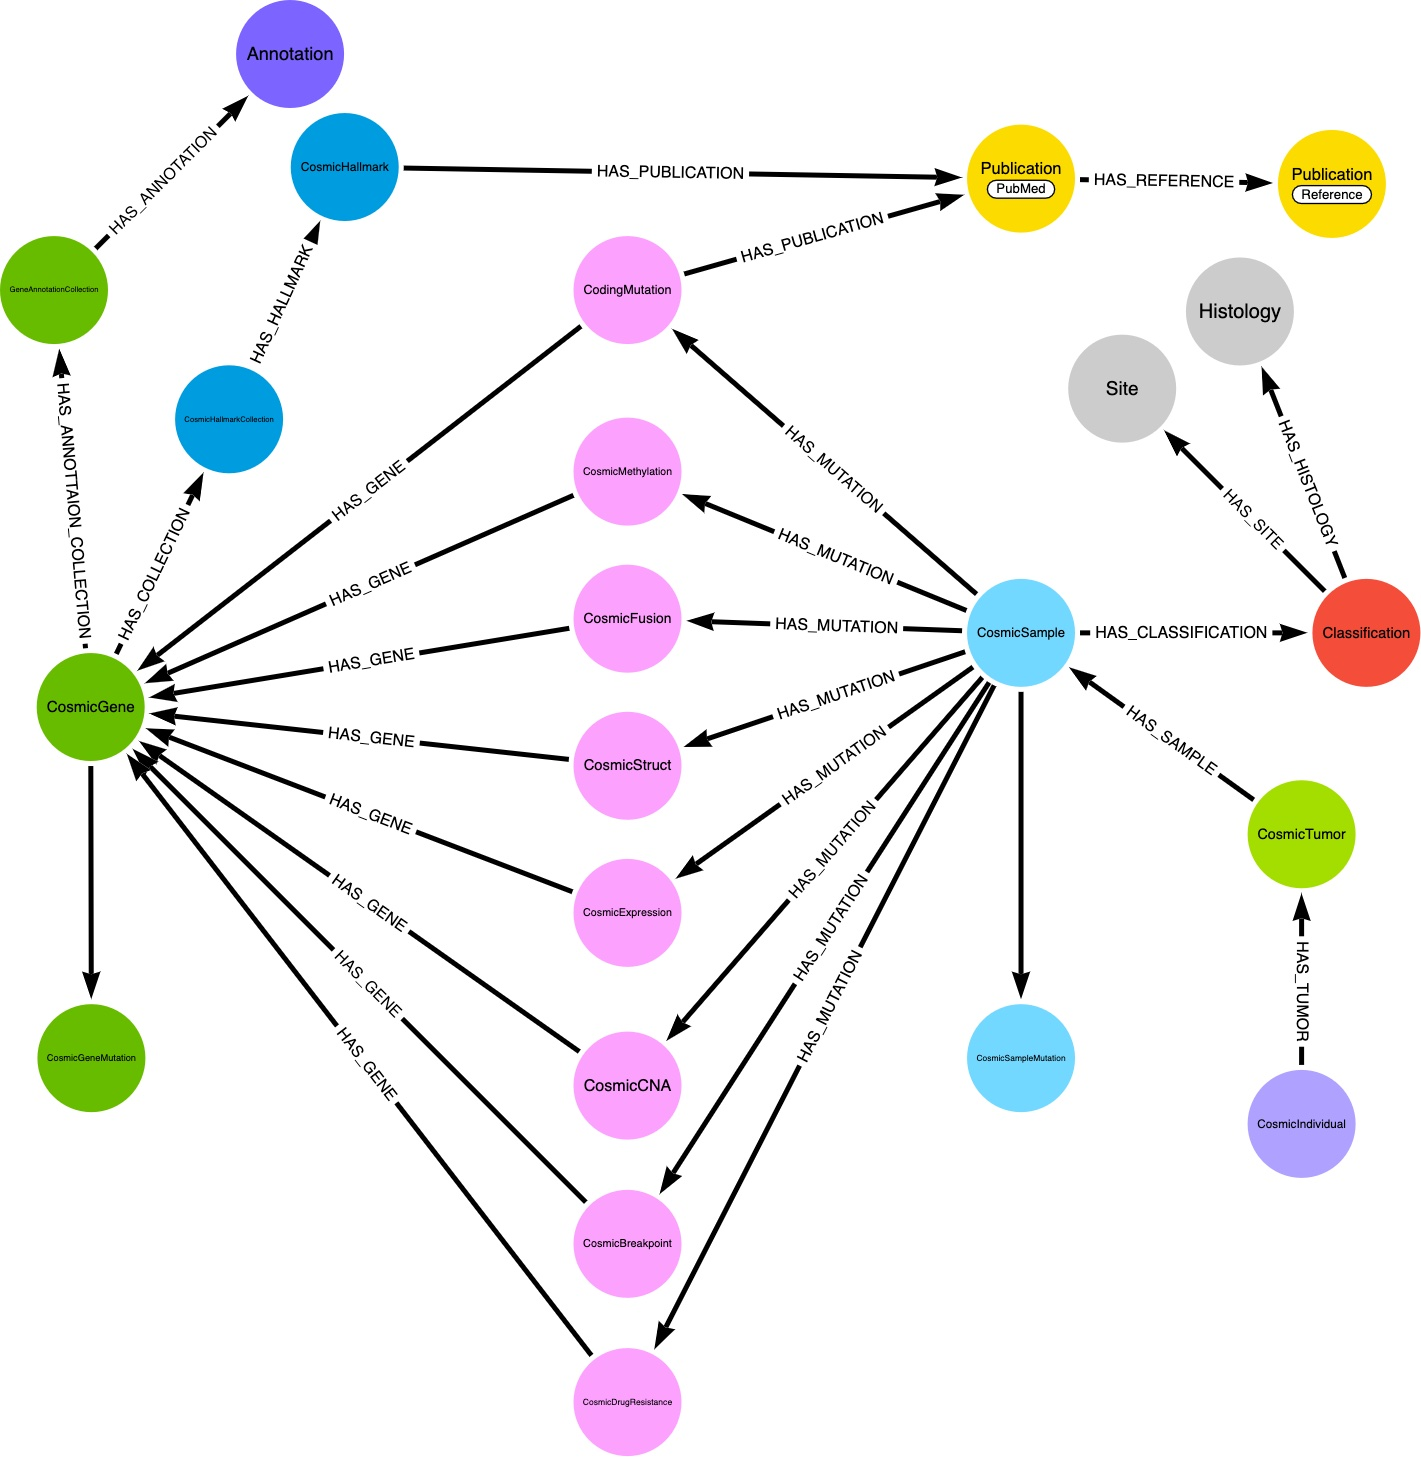
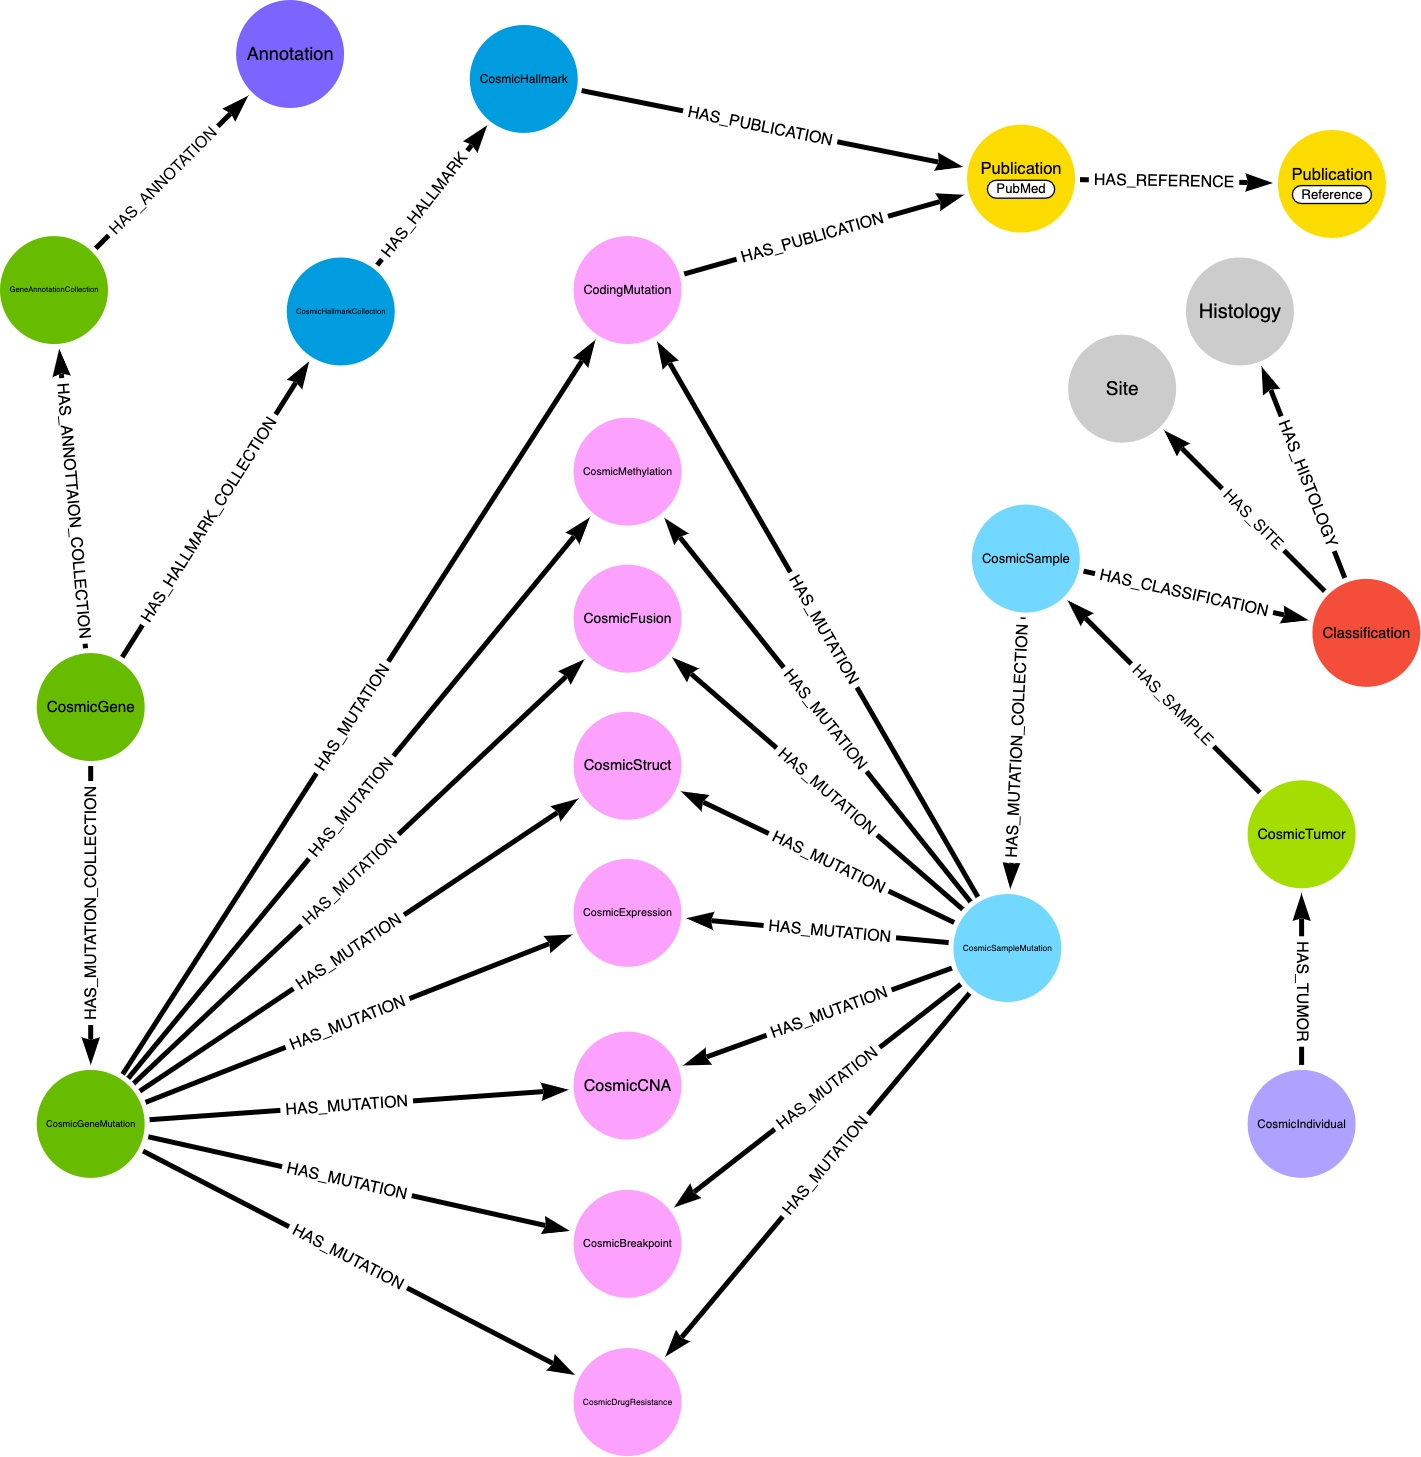
Added restart support; revised schema diagram

diff --git a/src/main/kotlin/org/batteryparkdev/cosmicgraphdb/app/CosmicNeo4jDatabaseLoader.kt b/src/main/kotlin/org/batteryparkdev/cosmicgraphdb/app/CosmicNeo4jDatabaseLoader.kt
@@ -119,13 +119,18 @@ class CosmicNeo4jDatabaseLoader() : CoroutineScope {
 
     private fun loadGeneCensusJob(): String {  // job 2
         CosmicModelLoader(CosmicFilenameService.cosmicGeneCensusFile).also {
-            println("Starting GeneCensus loader")
+            val dropCount = resolveNodeCountByLabel("CosmicGene")
+            println("Starting GeneCensus loader; skipping $dropCount records")
             val stopwatch = Stopwatch.createStarted()
-            it.loadCosmicFile()
+            it.loadCosmicFile(dropCount)
             println("CosmicGeneCensus data loading required ${stopwatch.elapsed(TimeUnit.MINUTES)} minutes")
         }
         return "GeneCensus data loaded"
     }
+
+    private fun resolveNodeCountByLabel(label: String): Int =
+        Neo4jConnectionService.executeCypherCommand("MATCH (n: $label) " +
+                "RETURN Count(n)").toInt()
 
     /*
     Private function to load the COSMIC hallmark data.
@@ -143,9 +148,10 @@ class CosmicNeo4jDatabaseLoader() : CoroutineScope {
 
     private fun loadClassificationJob(): String {   // job 4
         CosmicModelLoader(CosmicFilenameService.cosmicClassificationFile).also {
-            println("Starting Classification loader")
+            val dropCount = resolveNodeCountByLabel("CosmicClassification")
+            println("Starting Classification loader; skipping $dropCount records")
             val stopwatch = Stopwatch.createStarted()
-            it.loadCosmicFile()
+            it.loadCosmicFile(dropCount)
             println("CosmicClassification data loading required ${stopwatch.elapsed(TimeUnit.MINUTES)} minutes")
         }
         return "Classifications data loaded"
@@ -153,9 +159,10 @@ class CosmicNeo4jDatabaseLoader() : CoroutineScope {
 
     private fun loadSampleJob(job4Result: String): String { // job 5
         CosmicModelLoader(CosmicFilenameService.cosmicSampleFile).also {
-            println("Starting Sample loader")
+            val dropCount = resolveNodeCountByLabel("CosmicSample")
+            println("Starting Sample loader; skipping $dropCount records")
             val stopwatch = Stopwatch.createStarted()
-            it.loadCosmicFile()
+            it.loadCosmicFile(dropCount)
             println("CosmicSample data loading required ${stopwatch.elapsed(TimeUnit.MINUTES)} minutes")
         }
         return "Sample data loaded"
@@ -163,9 +170,10 @@ class CosmicNeo4jDatabaseLoader() : CoroutineScope {
 
     private fun loadCodingMutations(job5Result: String): String {  //job 6
         CosmicModelLoader(CosmicFilenameService.cosmicMutationExportCensusFile).also {
-            println("Starting CosmicCodingMutation loader")
+            val dropCount = resolveNodeCountByLabel("CosmicCodingMutation")
+            println("Starting CosmicCodingMutation loader; skipping $dropCount records")
             val stopwatch = Stopwatch.createStarted()
-            it.loadCosmicFile()
+            it.loadCosmicFile(dropCount)
             println("CosmicCodingMutation data loading required ${stopwatch.elapsed(TimeUnit.MINUTES)} minutes")
         }
         return "MutantExportCensus data loaded"
@@ -173,9 +181,10 @@ class CosmicNeo4jDatabaseLoader() : CoroutineScope {
 
     private fun loadCompleteCNAJob(job3Result: String): String {  // job 7
         CosmicModelLoader(CosmicFilenameService.cosmicCompleteCNAFile).also {
-            println("Starting CompleteCNA loader")
+            val dropCount = resolveNodeCountByLabel("CosmicCompleteCNA")
+            println("Starting CompleteCNA loader; skipping $dropCount records")
             val stopwatch = Stopwatch.createStarted()
-            it.loadCosmicFile()
+            it.loadCosmicFile(dropCount)
             println("CosmicCompleteCNA data loading required ${stopwatch.elapsed(TimeUnit.MINUTES)} minutes")
         }
         return "CompleteCNA data loaded"
@@ -183,9 +192,10 @@ class CosmicNeo4jDatabaseLoader() : CoroutineScope {
 
     private fun loadDiffMethylationJob(job5Result: String): String {  // job 8
         CosmicModelLoader(CosmicFilenameService.cosmicDiffMethylationFile).also {
-            println("Starting DiffMethylation loader")
+            val dropCount = resolveNodeCountByLabel("CosmicDiffMethylation")
+            println("Starting DiffMethylation loader; skipping $dropCount records")
             val stopwatch = Stopwatch.createStarted()
-            it.loadCosmicFile()
+            it.loadCosmicFile(dropCount)
             println("CosmicDiffMethylation data loading required ${stopwatch.elapsed(TimeUnit.MINUTES)} minutes")
         }
         return "DiffMethylation data loaded"
@@ -193,9 +203,10 @@ class CosmicNeo4jDatabaseLoader() : CoroutineScope {
 
     private fun loadGeneExpressionJob(job5Result: String): String { // job 9
         CosmicModelLoader(CosmicFilenameService.cosmicGeneExpressionFile).also {
-            println("Starting GeneExpression loader")
+            val dropCount = resolveNodeCountByLabel("CosmicGeneExpression")
+            println("Starting GeneExpression loader; skipping $dropCount records")
             val stopwatch = Stopwatch.createStarted()
-            it.loadCosmicFile()
+            it.loadCosmicFile(dropCount)
             println("CosmicGeneExpression data loading required ${stopwatch.elapsed(TimeUnit.MINUTES)} minutes")
         }
         return "GeneExpression data loaded"
@@ -203,9 +214,10 @@ class CosmicNeo4jDatabaseLoader() : CoroutineScope {
 
     private fun loadBreakpointsJob(job5Result: String): String {   // job 10
         CosmicModelLoader(CosmicFilenameService.cosmicBreakpointsFile).also {
-            println("Starting Breakpoints loader")
+            val dropCount = resolveNodeCountByLabel("CosmicBreakpoint")
+            println("Starting Breakpoints loader; skipping $dropCount records")
             val stopwatch = Stopwatch.createStarted()
-            it.loadCosmicFile()
+            it.loadCosmicFile(dropCount)
             println("CosmicBreakpoints data loading required ${stopwatch.elapsed(TimeUnit.MINUTES)} minutes")
         }
         return "CosmicBreakpoints data loaded"
@@ -213,9 +225,10 @@ class CosmicNeo4jDatabaseLoader() : CoroutineScope {
 
     private fun loadCosmicStructJob(job5Result: String): String {  // job 11
         CosmicModelLoader(CosmicFilenameService.cosmicStructFile).also {
-            println("Starting Struct variant data loader ")
+            val dropCount = resolveNodeCountByLabel("CosmicStruct")
+            println("Starting Struct variant data loader; skipping $dropCount records ")
             val stopwatch = Stopwatch.createStarted()
-            it.loadCosmicFile()
+            it.loadCosmicFile(dropCount)
             println("CosmicStruct data loading required ${stopwatch.elapsed(TimeUnit.MINUTES)} minutes")
         }
         return "CosmicStruct data loaded"
@@ -223,9 +236,10 @@ class CosmicNeo4jDatabaseLoader() : CoroutineScope {
 
     private fun loadCosmicResistanceMutationsJob(job5Result: String): String {  // job 12
         CosmicModelLoader(CosmicFilenameService.cosmicResistanceFile).also {
-            println("Starting Drug Resistance data loader ")
+            val dropCount = resolveNodeCountByLabel("DrugResistance")
+            println("Starting Drug Resistance data loader; skipping $dropCount records ")
             val stopwatch = Stopwatch.createStarted()
-            it.loadCosmicFile()
+            it.loadCosmicFile(dropCount)
             println("CosmicSResistanceMutations data loading required ${stopwatch.elapsed(TimeUnit.MINUTES)} minutes")
         }
         return "Result of CosmicResistanceMutation data loaded"
@@ -234,9 +248,10 @@ class CosmicNeo4jDatabaseLoader() : CoroutineScope {
     private fun loadCosmicNCVJob(job5Result: String): String {  // job 13
         println("Starting NCV data loader ")
         CosmicModelLoader(CosmicFilenameService.cosmicNCVFile).also {
-            println("Starting NCV data loader ")
+            val dropCount = resolveNodeCountByLabel("CosmicNCV")
+            println("Starting NCV data loader; skipping $dropCount records ")
             val stopwatch = Stopwatch.createStarted()
-            it.loadCosmicFile()
+            it.loadCosmicFile(dropCount)
             println("CosmicNCV data loading required ${stopwatch.elapsed(TimeUnit.MINUTES)} minutes")
         }
         return "CosmicNCV data loaded"
@@ -244,9 +259,10 @@ class CosmicNeo4jDatabaseLoader() : CoroutineScope {
 
     private fun loadCosmicFusionJob(Job5Result: String): String {
         CosmicModelLoader(CosmicFilenameService.cosmicFusionFile).also {
-            println("Starting Fusion data loader ")
+            val dropCount = resolveNodeCountByLabel("CosmicFusion")
+            println("Starting Fusion data loader; skipping $dropCount records ")
             val stopwatch = Stopwatch.createStarted()
-            it.loadCosmicFile()
+            it.loadCosmicFile(dropCount)
             println("CosmicFusion data loading required ${stopwatch.elapsed(TimeUnit.MINUTES)} minutes")
         }
         return "CosmicFusion data loaded"
@@ -254,9 +270,10 @@ class CosmicNeo4jDatabaseLoader() : CoroutineScope {
 
     private fun loadHGNCJob(job2Result: String): String {
         CosmicModelLoader(CosmicFilenameService.cosmicHGNCFile).also {
-            println("Starting HGNC loader ")
+            val dropCount = resolveNodeCountByLabel("CosmicHGNC")
+            println("Starting HGNC loader; skipping $dropCount records ")
             val stopwatch = Stopwatch.createStarted()
-            it.loadCosmicFile()
+            it.loadCosmicFile(dropCount)
             println("CosmicHGNC data loading required ${stopwatch.elapsed(TimeUnit.MINUTES)} minutes")
         }
         return "CosmicHGNC data loaded"

diff --git a/src/main/kotlin/org/batteryparkdev/cosmicgraphdb/loader/CosmicHallmarkLoader.kt b/src/main/kotlin/org/batteryparkdev/cosmicgraphdb/loader/CosmicHallmarkLoader.kt
@@ -22,6 +22,9 @@ into the Neo4j database
  */
 object CosmicHallmarkLoader {
     private val logger: FluentLogger = FluentLogger.forEnclosingClass()
+    private val dropCount =
+        Neo4jConnectionService.executeCypherCommand("MATCH (n: CosmicHallmark) " +
+                "RETURN Count(n)").toInt()
 
     /*
     CosmicHallmark file uses a UTF16 encoding
@@ -30,7 +33,9 @@ object CosmicHallmarkLoader {
     fun CoroutineScope.parseCSVRecords(filename: String) =
         produce<CosmicHallmark> {
             val path = Paths.get(filename)
-            UTF16CSVRecordSupplier(path).get().asSequence().forEach{
+            UTF16CSVRecordSupplier(path).get().asSequence()
+                .drop(dropCount)
+                .forEach{
                 send( CosmicHallmark.parseCSVRecord(it))
                     delay(20)
                 }
@@ -62,7 +67,7 @@ object CosmicHallmarkLoader {
     fun processCosmicHallmarkFile(filename: String) = runBlocking {
         require(filename.isNotEmpty()) {"A CosmicHallmark filename must be specified"}
         check(File(filename).exists()) {"$filename does not exist"}
-        logger.atInfo().log("Loading CosmicGeneCensus data from file $filename")
+        logger.atInfo().log("Loading CosmicGeneCensus data from file $filename; droppinf $dropCount records")
         var nodeCount = 0
         val stopwatch = Stopwatch.createStarted()
         val geneSymbols = addPubMedRelationship(

diff --git a/src/main/kotlin/org/batteryparkdev/cosmicgraphdb/loader/CosmicModelLoader.kt b/src/main/kotlin/org/batteryparkdev/cosmicgraphdb/loader/CosmicModelLoader.kt
@@ -20,10 +20,11 @@ class CosmicModelLoader( val filename: String) {
     private val logger: FluentLogger = FluentLogger.forEnclosingClass()
 
     @OptIn(ExperimentalCoroutinesApi::class)
-    private fun CoroutineScope.csvProcessCosmicFile() =
+    private fun CoroutineScope.csvProcessCosmicFile(dropCount: Int) =
         produce<CosmicModel> {
             val path = Paths.get(CosmicFilenameService.resolveCosmicDataFile(filename))
             CSVRecordSupplier(path).get().asSequence()
+                .drop(dropCount)
                 .map { parseCosmicModel(it) }
                 .forEach {
                     if (it.isValid()) {
@@ -82,11 +83,11 @@ class CosmicModelLoader( val filename: String) {
     /*
     Function to load data from a Cosmic file into the Neo4j database
      */
-    fun loadCosmicFile() = runBlocking {
+    fun loadCosmicFile( dropCount:Int = 0) = runBlocking {
         logger.atInfo().log("Loading Cosmic data from file: $filename")
         var nodeCount = 0
         val stopwatch = Stopwatch.createStarted()
-        val models = processPubMedData(loadCosmicModel(csvProcessCosmicFile()))
+        val models = processPubMedData(loadCosmicModel(csvProcessCosmicFile(dropCount)))
 
         for ( model in models){
             nodeCount += 1

diff --git a/src/main/kotlin/org/batteryparkdev/cosmicgraphdb/model/CosmicSample.kt b/src/main/kotlin/org/batteryparkdev/cosmicgraphdb/model/CosmicSample.kt
@@ -1,6 +1,7 @@
 package org.batteryparkdev.cosmicgraphdb.model
 
 import org.apache.commons.csv.CSVRecord
+import org.batteryparkdev.neo4j.service.Neo4jConnectionService
 import org.batteryparkdev.neo4j.service.Neo4jUtils
 import org.batteryparkdev.nodeidentifier.model.NodeIdentifier
 import org.neo4j.driver.Value
